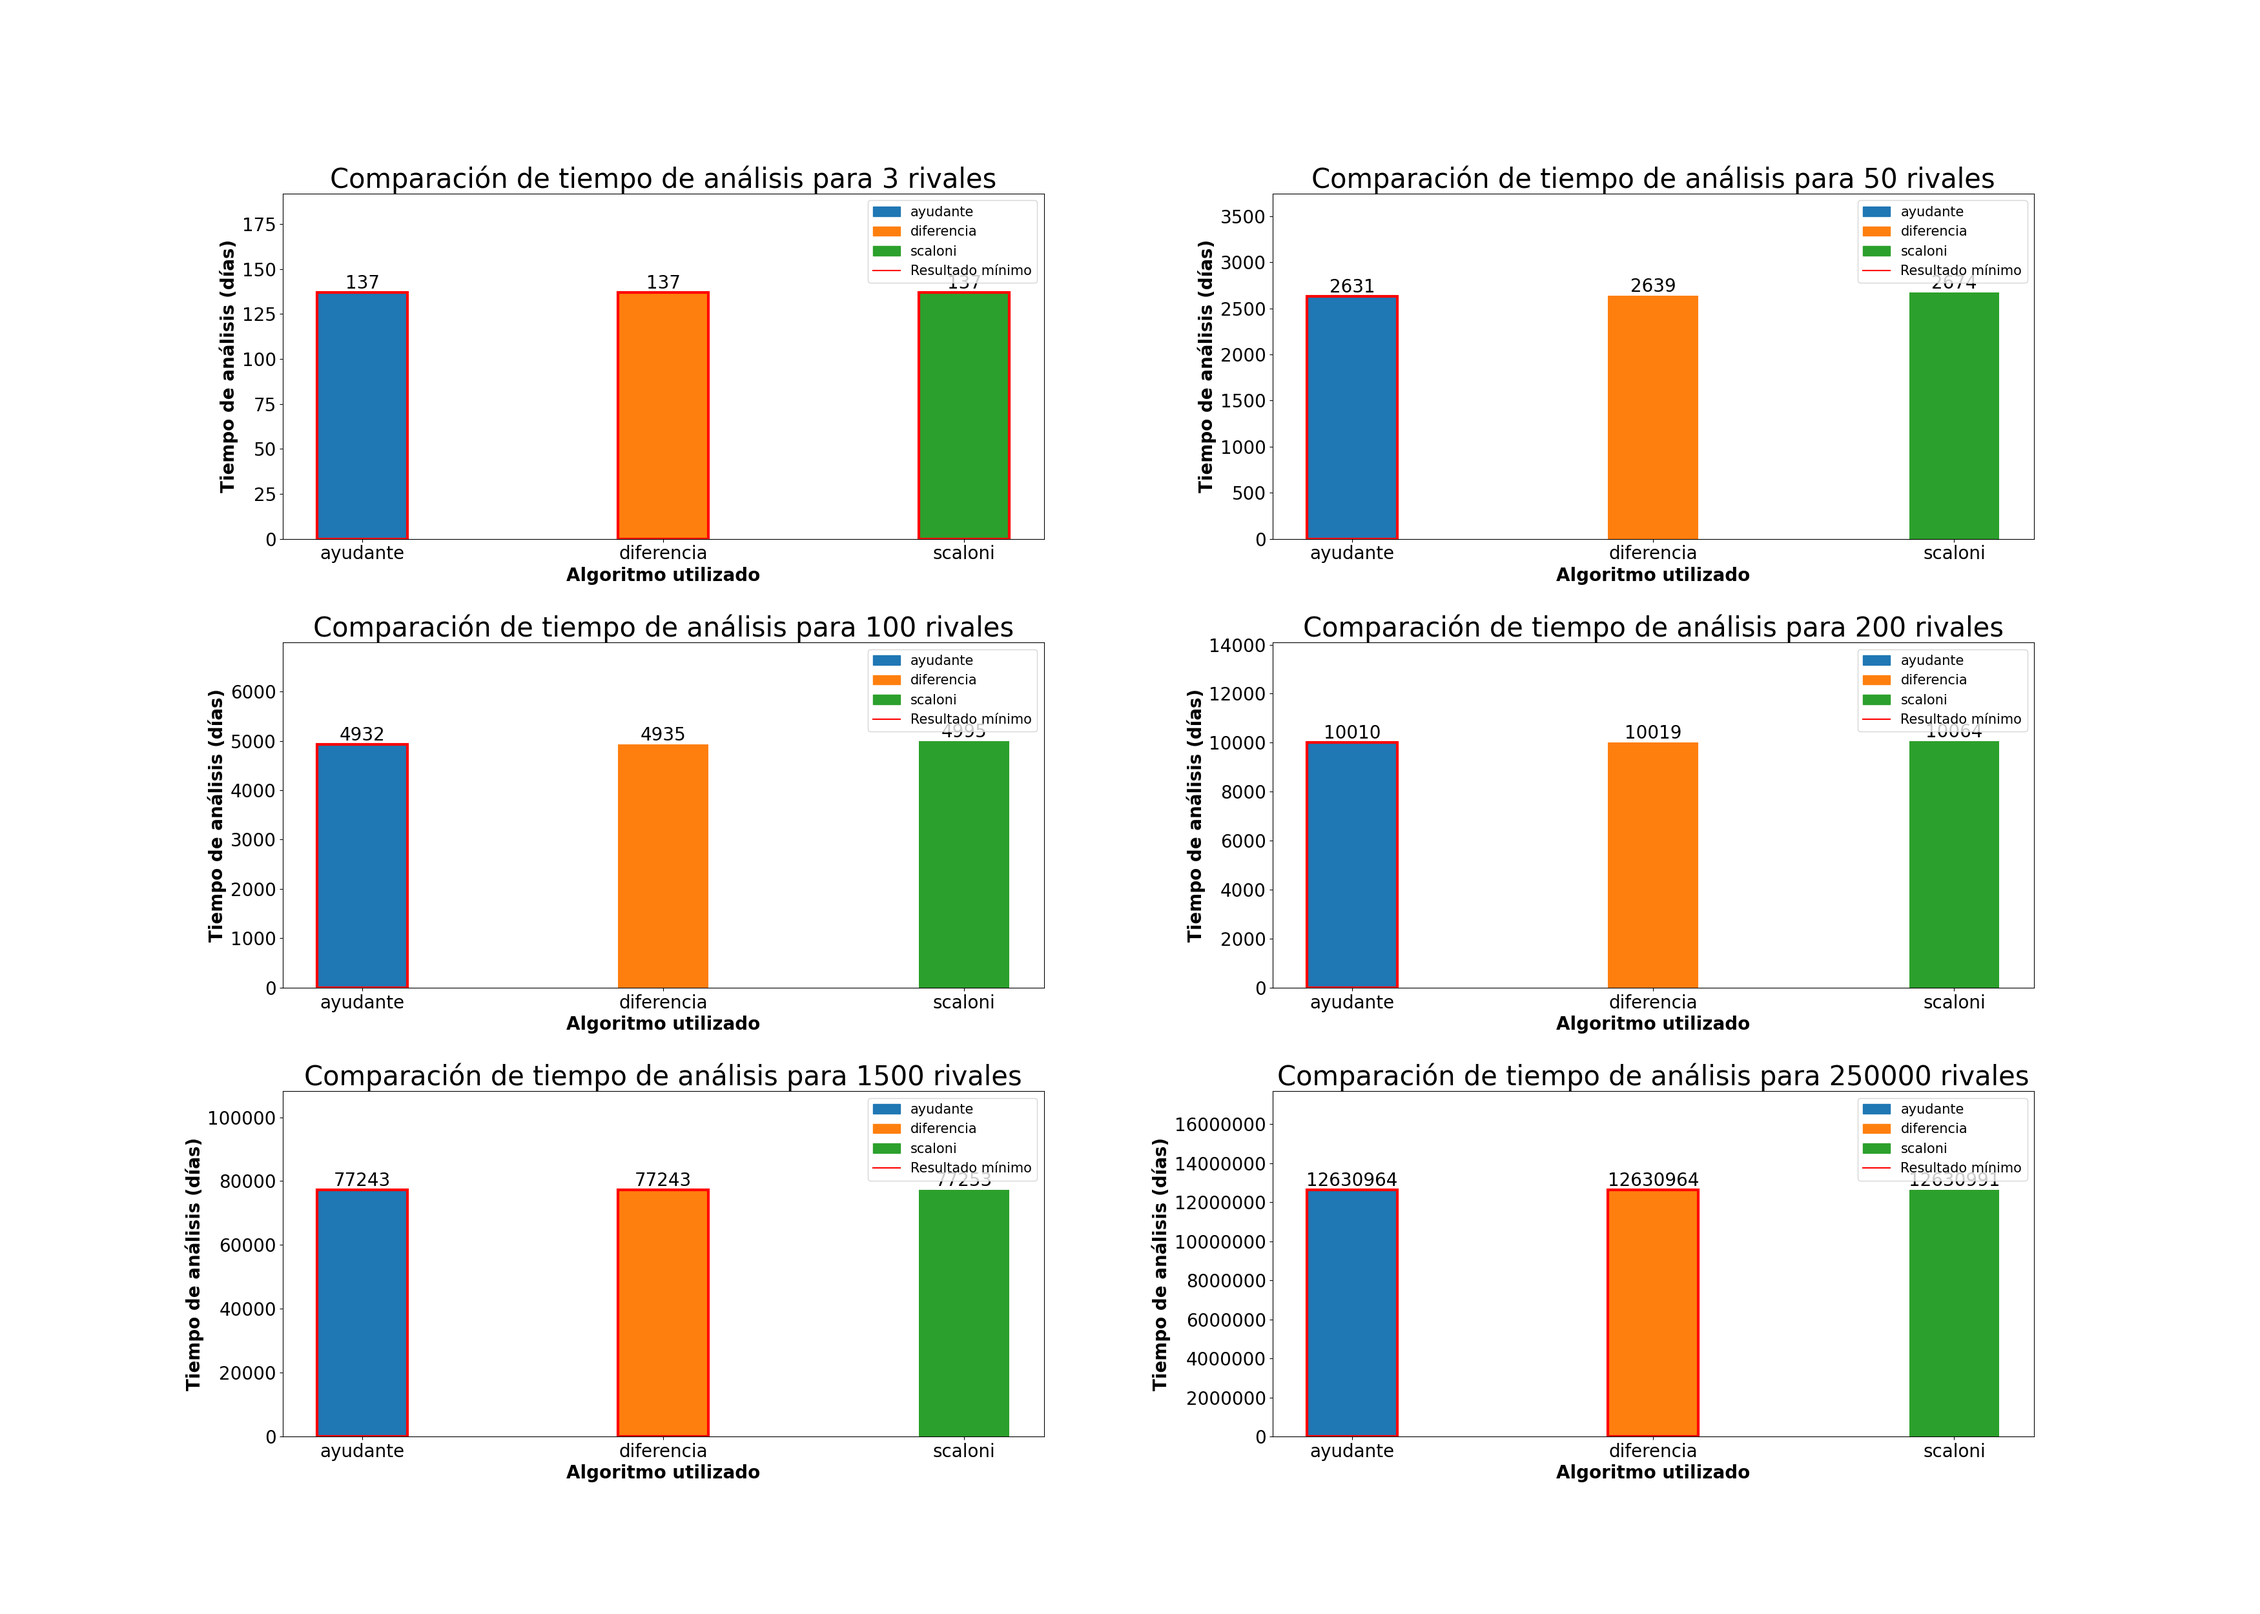
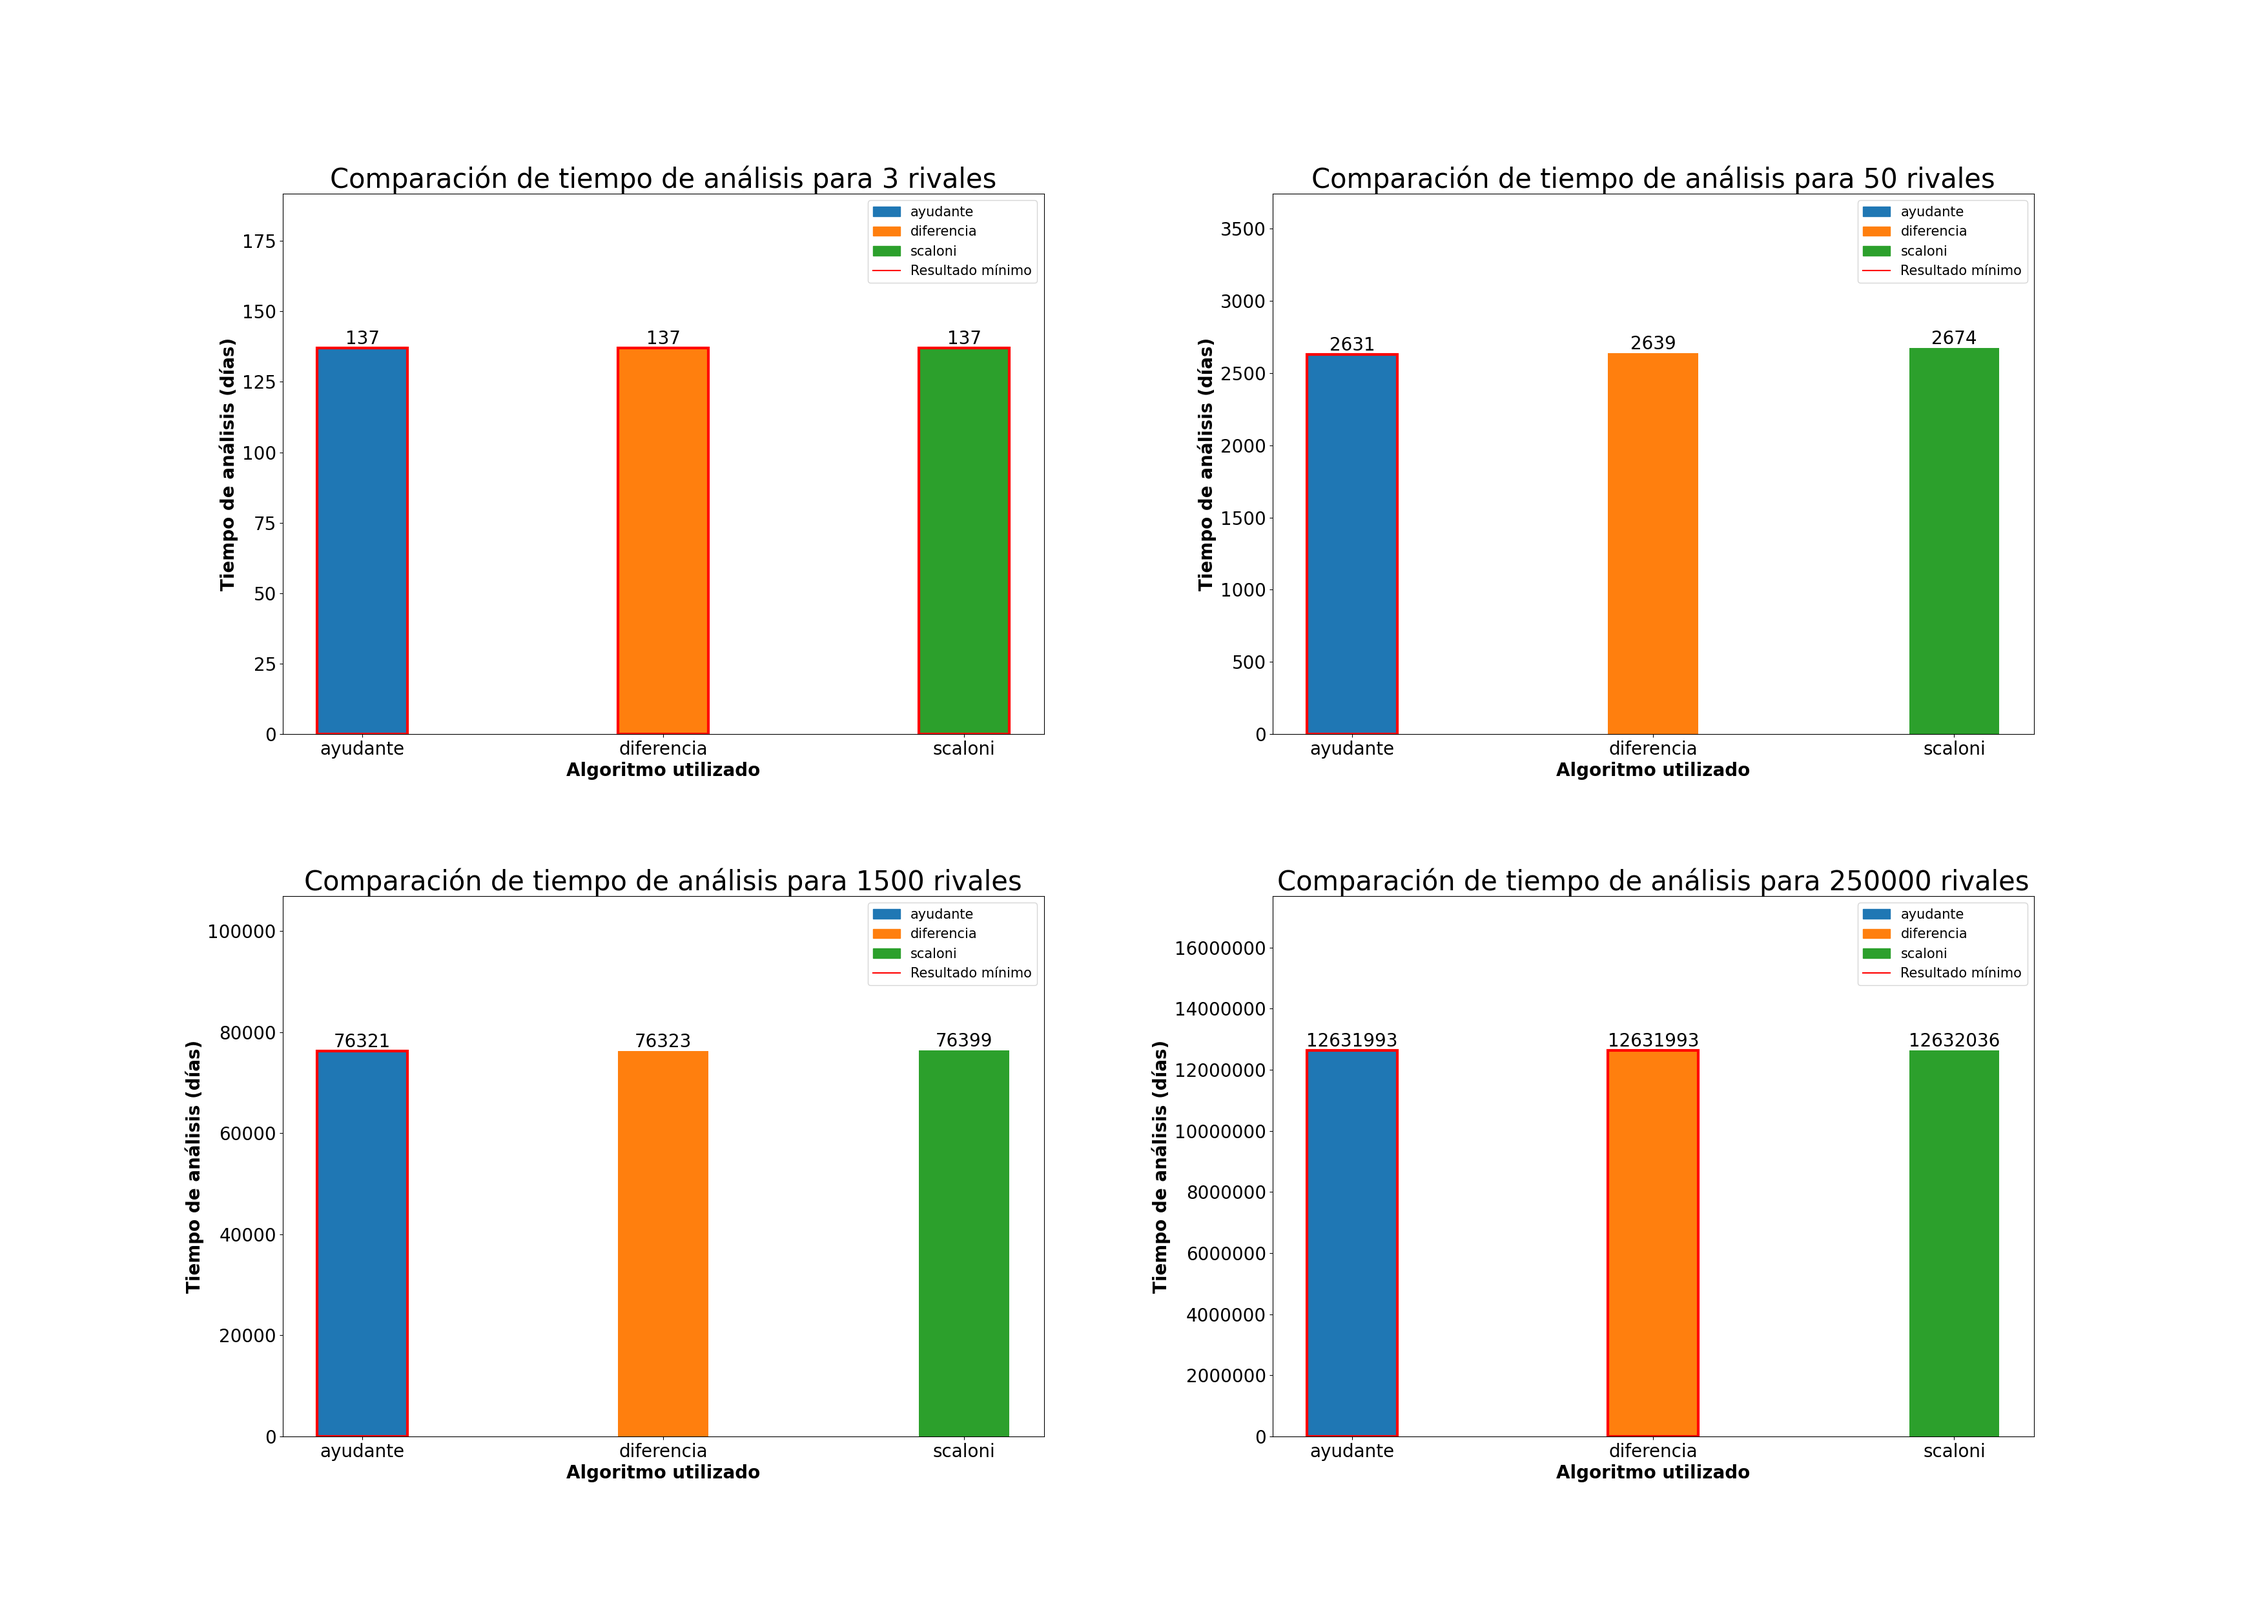
refactor comparaciones

diff --git a/comparacion_resultados.py b/comparacion_resultados.py
@@ -6,7 +6,8 @@ from matplotlib.lines import Line2D
 from matplotlib.patches import Rectangle
 
 from algoritmos import ALGORITMOS, calcular_tiempo_analisis_completo
-from casos.generacion_casos import generar_tamanios_comparacion, generar_casos, generar_tamanios_expandido
+from casos.generacion_casos import generar_tamanios_comparacion, generar_casos, generar_tamanios_potencias, \
+    generar_tamanios_grande
 
 
 def graficar_comparacion_tiempos(casos: List[List[int]]) -> None:
@@ -95,7 +96,7 @@ def calcular_efectividad_global(casos: List[List[int]], algoritmos: Dict[str, ca
     return efectividad_global
 
 
-def graficar_efectividad(efectividad: Dict[str, float]) -> None:
+def graficar_efectividad(efectividad: Dict[str, float], nombre_plot) -> None:
     nombres_algoritmos = list(efectividad.keys())
     porcentajes_efectividad = list(efectividad.values())
     colores = ['tab:blue', 'tab:orange', 'tab:green']
@@ -119,24 +120,34 @@ def graficar_efectividad(efectividad: Dict[str, float]) -> None:
     plt.yticks(fontsize=12)
     plt.ylim(0, 110)
 
-    plt.savefig('graficos/efectivity_comparison_plot.png')
+    plt.savefig(f'graficos/{nombre_plot}.png')
 
 
 def analizar_resultados_tiempo_analisis() -> None:
     tamanios = generar_tamanios_comparacion()
+    print(f"Comparando resultados con los siguientes tamaños: {tamanios}")
     casos = generar_casos(tamanios)
     graficar_comparacion_tiempos(casos)
 
-def analizar_resultados_efectividad() -> None:
-    tamanios = generar_tamanios_expandido()
+def analizar_resultados_efectividad_potencias() -> None:
+    tamanios = generar_tamanios_potencias()
+    print(f"Comparando efectividad con los siguientes tamaños: {tamanios}")
     casos = generar_casos(tamanios)
     efectividad_global = calcular_efectividad_global(casos, ALGORITMOS)
-    graficar_efectividad(efectividad_global)
+    graficar_efectividad(efectividad_global, "efectivity_powers_two")
 
 
+def analizar_resultados_efectividad_expandido() -> None:
+    tamanios = generar_tamanios_grande()
+    print(f"Comparando efectividad con los siguientes tamaños: {tamanios}")
+    casos = generar_casos(tamanios)
+    efectividad_global = calcular_efectividad_global(casos, ALGORITMOS)
+    graficar_efectividad(efectividad_global, "efectivity_expanded")
 
 def main():
     analizar_resultados_tiempo_analisis()
-    analizar_resultados_efectividad()
+    analizar_resultados_efectividad_expandido()
+    analizar_resultados_efectividad_potencias()
+
 
 main()

diff --git a/casos/generacion_casos.py b/casos/generacion_casos.py
@@ -2,7 +2,8 @@ import random
 from typing import List, Tuple
 
 TAMANIO_BASICO = 10
-TAMANIO_EXPANDIDO = 20
+TAMANIO_POTENCIAS = 20
+TAMANIO_EXPANDIDO = 1000
 
 def _generar_tamanios(tamanio):
     return [2 ** n for n in range(1, tamanio)]
@@ -12,12 +13,15 @@ def generar_tamanios():
     return _generar_tamanios(TAMANIO_BASICO)
 
 
-def generar_tamanios_expandido():
-    return _generar_tamanios(TAMANIO_EXPANDIDO)
+def generar_tamanios_potencias():
+    return _generar_tamanios(TAMANIO_POTENCIAS)
+
+def generar_tamanios_grande():
+    return [random.randint(1, 100) for _ in range(1, TAMANIO_EXPANDIDO)]
 
 
 def generar_tamanios_comparacion():
-    return [3, 50, 100, 200, 1500, 250000]
+    return [3, 50, 1500, 250000]
 
 
 def generar_tiempos_n_rivales(n: int) -> List[Tuple[int, int]]:
